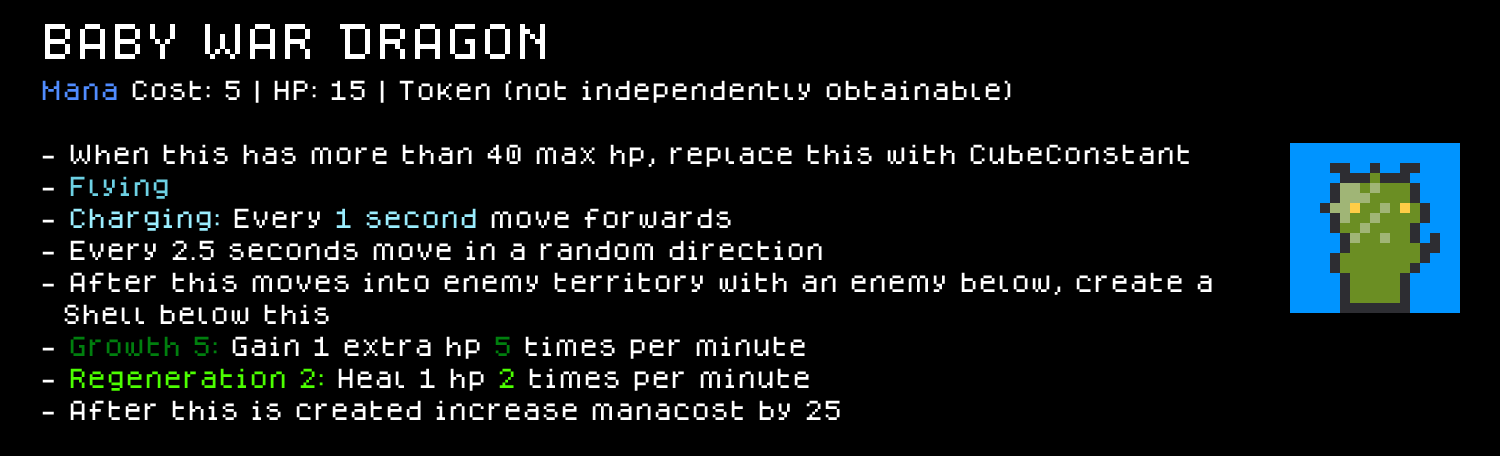
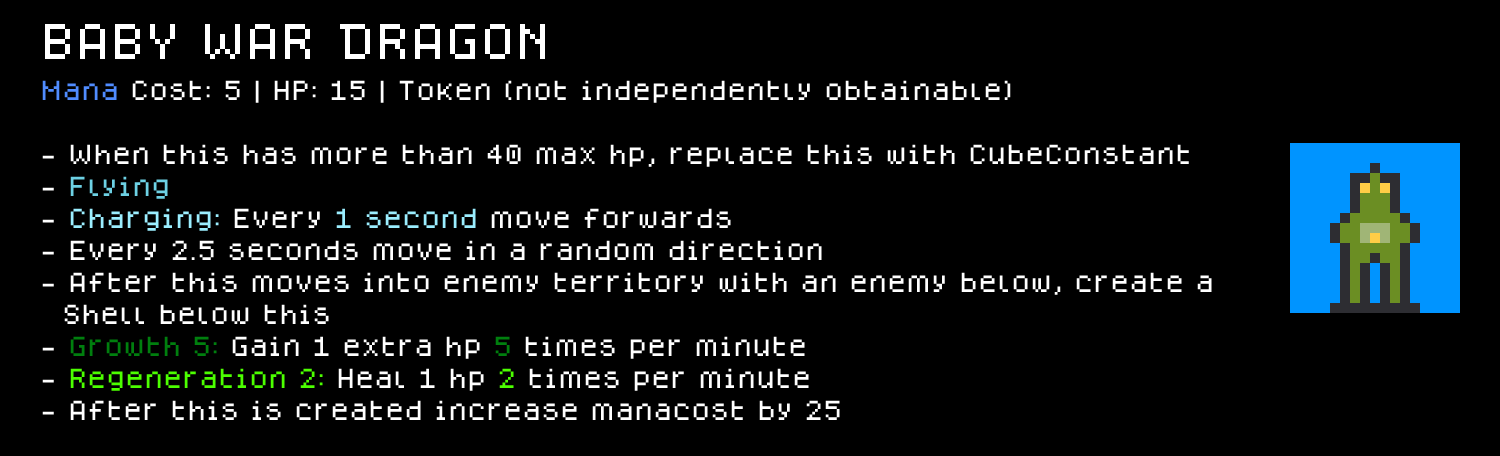
Updated Dragon Upgrades image generation

Changed region(s): [[0.8587, 0.3377, 0.9813, 0.6754]]

diff --git a/.claude/skills/cube-chaos-sprite-art/SKILL.md b/.claude/skills/cube-chaos-sprite-art/SKILL.md
@@ -58,6 +58,10 @@ row16 (w3, cols7-9):   ...XXX...
 
 **The Baby and Adult stages have no equivalent shared mask — checked and ruled out (2026-07-25).** Bounding-boxed all 21 real `Baby_<Theme>_Dragon`/`<Theme>_Dragon` pairs in `2TokenCubes.c.png` (Holy, Anger, Magic, Iron, Explosive, Invasive, Stone, Shadow, Elemental, Plant, Crystal, Chaos, Temporal, Undead, Devouring, Icy, Moil, Programmed, Fungus, Robot, Ancient): widths, heights, and color counts vary widely and unsystematically (baby width 7-15px/height 6-15px/2-9 colors; adult width 11-15px/height 12-15px/1-50 colors) — each theme's baby/adult is genuinely unique freeform creature art, not a reused silhouette. The egg is the one stage that's a shared generic-object mask; babies and adults are meant to look like *that theme's* distinct creature. The only soft convention observed (not a hard rule): most are bottom-flush at tile row 15, matching the general ground-unit convention above — the two exceptions (`Icy`'s baby and adult, maxy 11/13) are drawn visibly hovering, consistent with `Icy_Dragon`/`Baby_Icy_Dragon` both having `Flying`. This repo's own three babies/adults already sit inside that same envelope (width 12-15px, height 15px, bottom-flush) — no shape fix needed for them, unlike the egg.
 
+**Corollary, learned the hard way (2026-07-25): don't build a mod's Baby/Adult dragon trio by palette-remapping one shared silhouette across mods either.** This repo's original DJ/General/Unholy babies and adults were built as one silhouette with three different palettes applied (see "Themed variant of an existing cube" above for when palette-remapping *is* the right call — reskinning one cube within a mod) — confirmed byte-identical bounding boxes and per-color pixel counts across all three mods' babies, and again across all three adults. The user immediately flagged this as "these look too sameish" on sight. **A Dragon evolution line's Baby/Adult art must be genuinely unique per mod, matching that mod's own theme** — the same rule the base game already follows (previous paragraph), just easy to skip when three mods are built in the same session and a working silhouette is sitting right there to reuse. Concretely, this repo's fix (round 2 of that session) dropped the shared "front-facing creature with big spread wings + dangling tail" template entirely and gave each mod its own body plan grounded in its actual theme: DJ's `Bass_Dragon` reads as a subwoofer/amp/guitar beast (concentric-ring speaker-cone face, boxy amp-cabinet torso, guitar-neck tail with fret ticks, small sound-wave arcs floating off both sides — plus, once told the adult's `Ability:` chain spawns a `Note` cube directly above it, a small ripple mark placed above the head specifically to visually cue *where* the spawn happens, added identically to the baby since its own `Ability:` spawns the same way), General's `War_Dragon` reads as a heavily-armed flying mecha-jet (nose cone, swept delta wings, no legs since `Ability: Flying` means it's never grounded, a small rocket shape visibly dropping from underneath to match its actual `CreateCubeOnPosition CubeConstant Rocket` ability), and Unholy's `Hell_Dragon` reads as a demonic red lizard fire-dragon (curved horns, bat wings, flame-tipped tail — deliberately in the Pokémon Charmeleon→Charizard body-plan family per the user's own reference). **Tie the silhouette to the cube's actual `Ability:` chain, not just its name/color** — the DJ and General examples above only happened because the abilities were checked first; a name-only pass would have missed both.
+
+**Practical build technique: construct the main silhouette as one contiguous blob, run the edge-outline pass, THEN layer small decorative extras on top.** A naive "any base-colored pixel touching background becomes the outline color" auto-outliner (see the edge-outline technique under "Color composition" below) is correct for a solid body but silently destroys small *isolated* decorative shapes — a 2-3px wing tip, a floating sound-wave tick, a flame wisp — because every pixel of a small disconnected shape touches background on most/all sides, so the whole shape gets swallowed into flat outline color instead of showing its intended base/highlight/accent colors. Real incident from the Hell_Dragon/Bass_Dragon builds above: the first pass ran the auto-outliner over the wings and sound-wave marks together with the main body, and both rendered as flat dark blobs with no visible color detail (caught by re-rendering at high zoom, not obvious at normal preview size). Fixed by splitting each build into two passes: (1) main body pixels only (torso/head/legs, using only the base+highlight colors) → call the auto-outliner → (2) decorative extras (wings, tail, sound-wave arcs, flame tips) painted directly in their final colors *after* that call, never touching the auto-outliner. A decorative shape that's genuinely meant to read as part of the silhouette (e.g. a wing attached at the shoulder) should instead be added to pass (1), drawn *contiguous* with the main body (sharing at least one edge with an already-placed body pixel) so the auto-outliner only rims its true outer boundary instead of swallowing the whole shape — this is what made the Hell_Dragon's bat wings finally read correctly once they were reworked to touch the torso instead of floating 1px away from it.
+
 ## Border pattern library — every `PERK:` category has its own fixed border, generate it from scratch
 
 Every 27×27 PERK sheet in the base game (and this mod) is genuinely rendered with a border tied to the perk's category — not just CLASSSPECIES. All of them share one universal outer ring (`RGB(255,0,220)` magenta, row/col 0, the same non-rendered-looking-but-actually-rendered guide color everywhere), then diverge inward. **None of this needs to be re-extracted from a reference file** — every pattern below is fully determined by fixed pixel positions plus at most one or two named colors, so it can be generated purely from code once you know which category you're drawing for. Re-verifying against a real file is still worth doing once per *new* category (see the empirical method at the end of this section), but for the categories already catalogued here, generate directly from the recipes below.

diff --git a/GameData/DJ/DESIGN.md b/GameData/DJ/DESIGN.md
@@ -66,6 +66,16 @@ teleports to the top of a random enemy's column (`SetStorage ARandomEnemy` →
 explicitly). Current cadence numbers: `DJ_Cubes.c.txt`. Because `Note` is a homing projectile (see
 above), each spawned Note flies off to strike enemies — the adult is a multi-way music battery.
 
+**Sprite (2026-07-25, revised after the Baby/Adult originally shipped as a palette-swap of the same
+generic silhouette used by `War_Dragon`/`Hell_Dragon` — see `cube-chaos-sprite-art`'s dragon-line
+corollary):** `Bass_Dragon` reads as a subwoofer/amp/e-guitar beast, not a generic winged lizard —
+concentric-ring speaker-cone face, boxy amp-cabinet torso, a guitar-neck tail with fret ticks and a
+headstock tip, and small sound-wave arcs floating off both sides of the head. Both the baby and adult
+also carry a small ripple mark directly above the head, deliberately placed there because that's where
+each one's own `Ability:` actually spawns its Note (baby: north; adult: also north, though it spawns on
+all 4 sides — the icon only marks the one direction to keep it readable, not all 4). Adult fills the
+tile near edge-to-edge; baby is deliberately smaller/rounder with no sound-wave arcs or guitar neck yet.
+
 ## Docs
 
 Has a `README.md` + `Preview/` cards — keep them in sync on every content/sprite change

diff --git a/GameData/General/DESIGN.md b/GameData/General/DESIGN.md
@@ -90,6 +90,15 @@ of flying a dead-straight mechanical line — a deliberate flavor choice the use
 stock Bomber. Current timing/damage numbers: `General_Cubes.c.txt`. Splash/combined-total balance still
 applies to the dropped Rockets — see the projectile-balance note above.
 
+**Sprite (2026-07-25, revised after the Adult originally shipped as a palette-swap of the same generic
+silhouette used by `Bass_Dragon`/`Hell_Dragon` — see `cube-chaos-sprite-art`'s dragon-line corollary):**
+the Adult `War_Dragon` reads as a heavily-armed flying mecha-jet rather than a standing mecha-Godzilla —
+nose cone, swept delta wings, no legs at all (it's always airborne, `Ability: Flying`), a tapered
+tail/exhaust, and a small rocket shape visibly dropping from underneath, matching its actual
+`CreateCubeOnPosition CubeConstant Rocket` drop ability. The Baby keeps the earlier standing
+mini-mecha-Godzilla look (antenna, blocky head, stubby legs) — only the Adult was revised to the
+flying-jet read. Adult fills the tile near edge-to-edge.
+
 > Open playtest items: the drop cadence (100% × per-move over enemies + fast charge) is intentionally
 > strong per the user; watch for Rocket-flooding in practice and add a `Cooldown` gate if it's too much.
 

diff --git a/GameData/Unholy/DESIGN.md b/GameData/Unholy/DESIGN.md
@@ -206,6 +206,16 @@ convention, no `\A`. Note: because `Burning` is a binary keyword (no stack level
 frequency only controls how fast newly-created enemies get ignited — the burn rate itself is fixed by
 the keyword (quoted above).
 
+**Sprite (2026-07-25, revised after the Baby/Adult originally shipped as a palette-swap of the same
+generic silhouette used by `Bass_Dragon`/`War_Dragon` — see `cube-chaos-sprite-art`'s dragon-line
+corollary):** `Hell_Dragon` reads as a red lizard fire-dragon with a demonic touch — curved horns, bat
+wings, a flame-tipped tail — deliberately in the Pokémon Charmeleon→Charizard body-plan family per the
+user's own reference. Adult fills the tile near edge-to-edge; baby is smaller with horn nubs and a tiny
+flame wisp instead of full horns/wings/tail. Wingspan and leg thickness went through one round of
+"bigger wings, thicker legs" that the user then asked to revert — the shipped version keeps the original
+(smaller-winged, thinner-legged) proportions; don't re-apply the bigger-wing/thicker-leg pass without
+asking again first.
+
 ## Sprite notes
 
 - **Species identity color: `RGB(150, 20, 20)`** (blood red) — the `Unholy` base-perk icon fill AND
